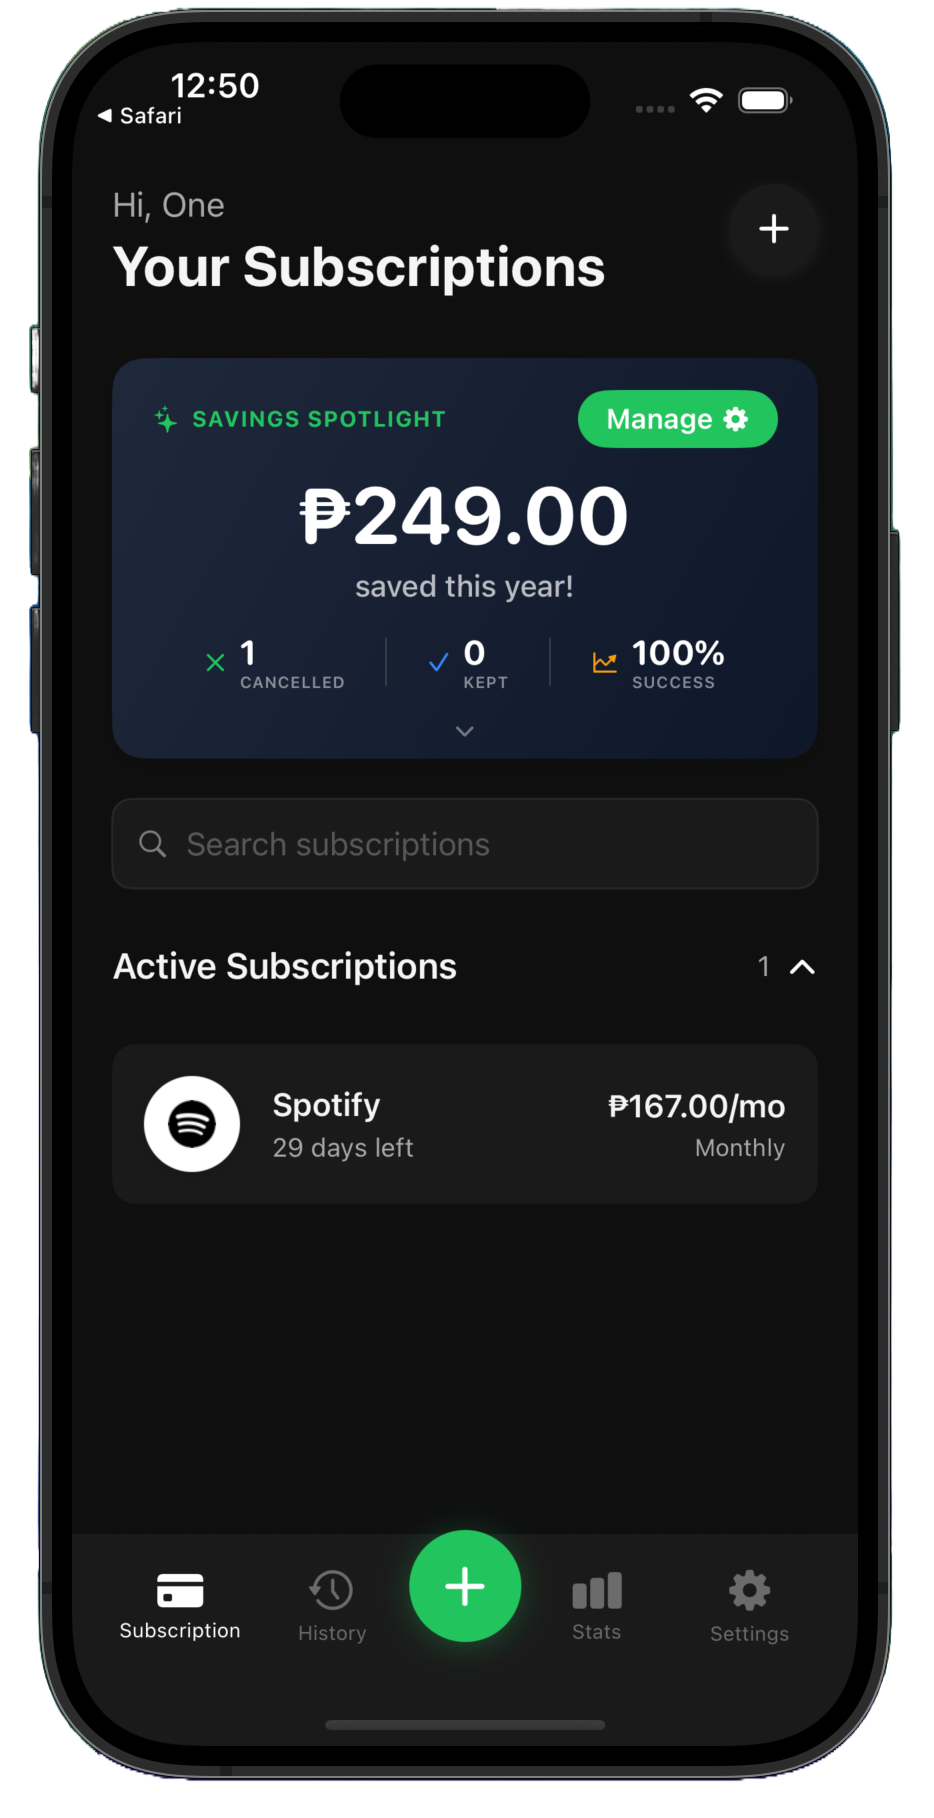
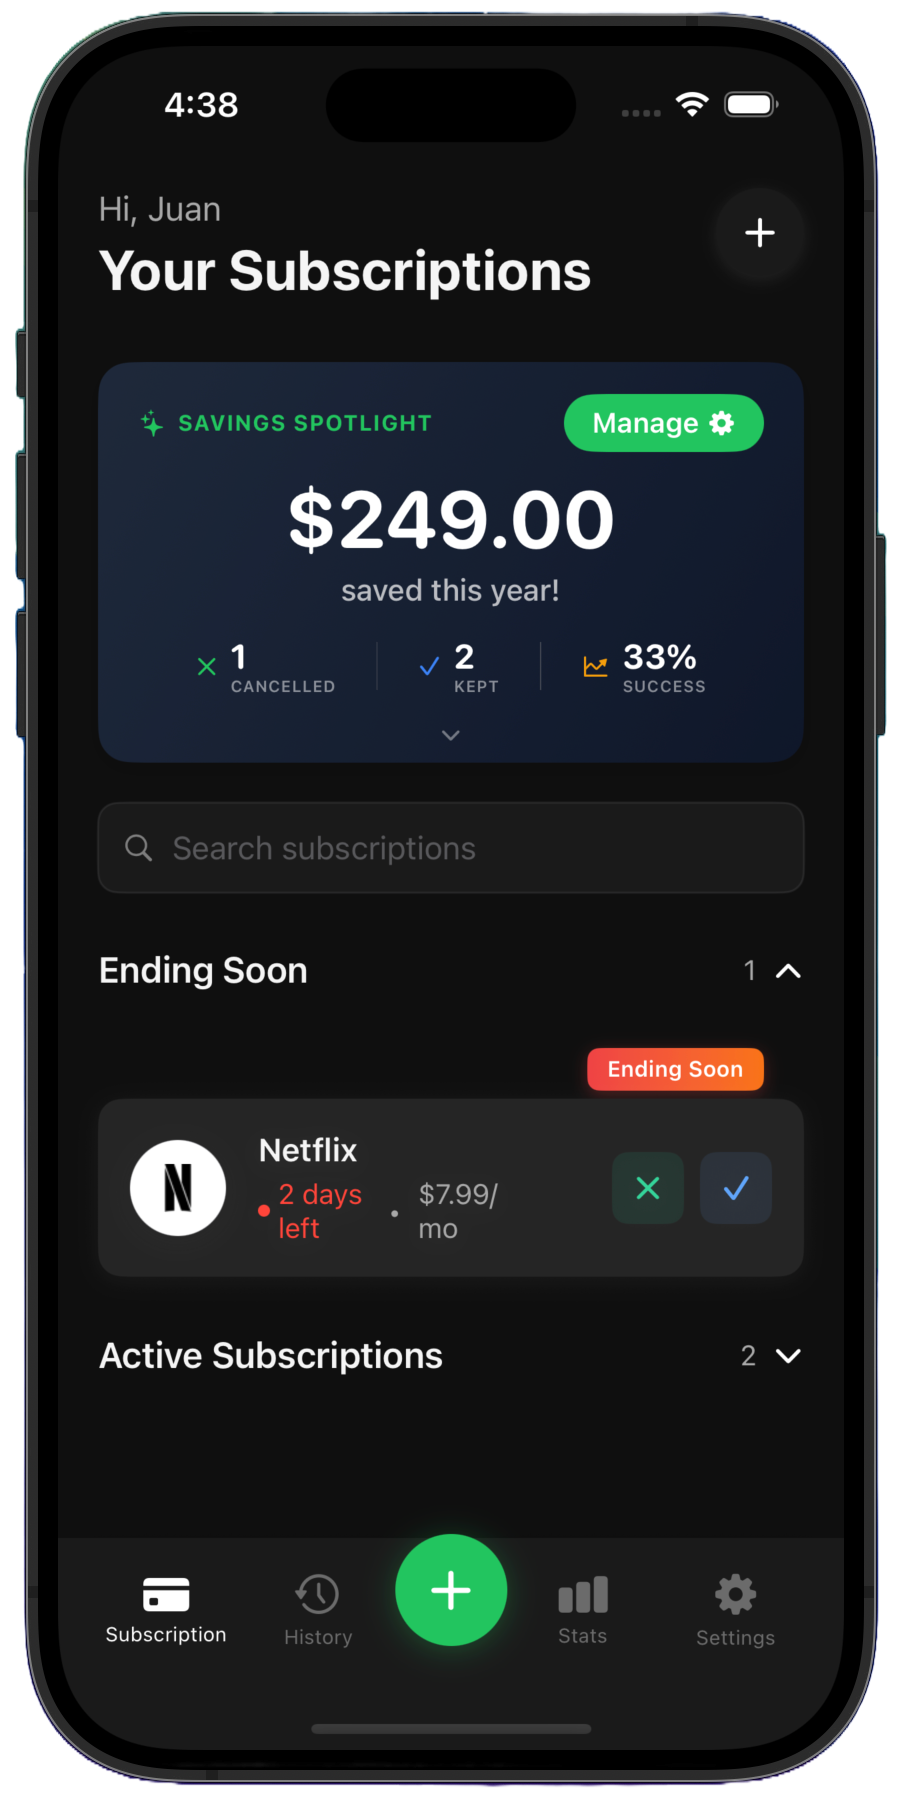
feat: Add app demo GIF and WARP.md documentation
- Replace placeholder demo with actual Kansyl app GIF in How It Works section
- Add comprehensive WARP.md file for future AI agent context
- Update demo container to fill entire space without background frame
- Import Next.js Image component for optimized GIF display

diff --git a/app/page.tsx b/app/page.tsx
@@ -1,6 +1,7 @@
 "use client"
 
 import React from 'react'
+import Image from 'next/image'
 import { DotGridHero } from "@/components/dot-grid-reactbits"
 import { PhoneMockup } from "@/components/phone-mockup"
 import { NumberTicker } from "@/components/number-ticker"
@@ -181,33 +182,15 @@ export default function Home() {
           <Reveal delay={0.2}>
             <div className="flex justify-center lg:justify-end lg:mr-[-3rem]">
               <div className="relative group lg:pr-20">
-                <div className="relative w-[280px] sm:w-[320px] md:w-[360px] h-[500px] sm:h-[570px] md:h-[640px] bg-gradient-to-b from-neutral-900/90 to-neutral-900/50 backdrop-blur-xl rounded-2xl border border-neutral-800/50 flex items-center justify-center overflow-hidden">
-                  <div className="absolute inset-0 bg-grid-white/[0.02] bg-[size:20px_20px]"></div>
-                  <div className="text-center text-neutral-400 z-10">
-                    <div className="w-20 h-20 mx-auto mb-4 bg-gradient-to-br from-primary/20 to-accent/20 rounded-2xl flex items-center justify-center group-hover:scale-110 transition-transform duration-300">
-                      <svg 
-                        className="w-10 h-10 text-primary" 
-                        fill="none" 
-                        stroke="currentColor" 
-                        viewBox="0 0 24 24"
-                      >
-                        <path 
-                          strokeLinecap="round" 
-                          strokeLinejoin="round" 
-                          strokeWidth={1.5} 
-                          d="M14.752 11.168l-3.197-2.132A1 1 0 0010 9.87v4.263a1 1 0 001.555.832l3.197-2.132a1 1 0 000-1.664z" 
-                        />
-                        <path 
-                          strokeLinecap="round" 
-                          strokeLinejoin="round" 
-                          strokeWidth={1.5} 
-                          d="M21 12a9 9 0 11-18 0 9 9 0 0118 0z" 
-                        />
-                      </svg>
-                    </div>
-                    <p className="text-sm font-medium">App Demo</p>
-                    <p className="text-xs text-neutral-500 mt-1">Coming soon</p>
-                  </div>
+                <div className="relative w-[280px] sm:w-[320px] md:w-[360px] h-[500px] sm:h-[570px] md:h-[640px] rounded-2xl overflow-hidden shadow-2xl">
+                  <Image
+                    src="/assets/video/kansel app demo.gif"
+                    alt="Kansyl app demo showing how to add trials and manage subscriptions"
+                    fill
+                    className="object-cover object-center"
+                    unoptimized={true}
+                    priority
+                  />
                 </div>
               </div>
             </div>

diff --git a/WARP.md b/WARP.md
@@ -1,0 +1,168 @@
+# WARP.md
+
+This file provides guidance to WARP (warp.dev) when working with code in this repository.
+
+## Project Overview
+
+Kansyl Landing is a high-performance, accessible, production-ready landing site for the iOS app "Kansyl". It's built with Next.js 15 (App Router), TypeScript, Tailwind CSS, shadcn/ui, and Framer Motion, with advanced WebGL animations from React Bits integration.
+
+## Common Commands
+
+### Development
+```bash
+# Start development server with Turbopack
+npm run dev
+
+# Build for production
+npm run build
+
+# Start production server
+npm run start
+
+# Lint code
+npm run lint
+```
+
+### Testing Single Components
+Since this is a single-page landing site, you can test individual components by temporarily rendering them in `app/page.tsx` or creating a temporary test page.
+
+## Architecture Overview
+
+### Tech Stack
+- **Framework**: Next.js 15 with App Router and Turbopack
+- **Language**: TypeScript 5
+- **Styling**: Tailwind CSS with custom animations
+- **UI Components**: shadcn/ui (Radix UI primitives)
+- **Animations**: Framer Motion + GSAP + custom WebGL effects
+- **3D Graphics**: Three.js with postprocessing for WebGL effects
+
+### File Structure Patterns
+```
+app/
+├── page.tsx          # Single-page landing with all sections
+├── layout.tsx        # Global layout, fonts, metadata
+└── globals.css       # Global styles with CSS variables
+
+components/
+├── ui/               # shadcn/ui primitives (Button, Card, etc.)
+├── *-examples.tsx    # Example/demo components for testing
+├── animated-*.tsx    # Animation components (text, buttons)
+├── dot-grid-*.tsx    # Interactive dot grid backgrounds
+├── pixel-blast-*.tsx # WebGL pixel effects (React Bits)
+├── floating-*.tsx    # Interactive feature cards
+├── phone-*.tsx       # iPhone mockup components
+└── reveal.tsx        # Scroll-triggered reveal animations
+```
+
+### Component Architecture Patterns
+
+#### Animation Components
+The project uses a layered animation approach:
+
+1. **Framer Motion Components**: High-level declarative animations
+   - `AnimatedText`: Text animations (fadeInUp, typewriter, stagger, etc.)
+   - `AnimatedGradientButton`: Gradient hover effects
+   - `Reveal`: Scroll-triggered animations with Intersection Observer
+
+2. **GSAP Components**: Complex timeline-based animations
+   - Used in dot grid interactions and physics-based effects
+   - Performance-optimized with throttling and requestAnimationFrame
+
+3. **WebGL/Three.js Effects**: Hardware-accelerated graphics
+   - `PixelBlast`: Advanced pixel-based background effects with shaders
+   - Custom GLSL shaders for interactive distortion effects
+
+#### React Bits Integration
+The project manually integrates React Bits components (due to npm issues):
+- Complex WebGL effects with Three.js and postprocessing
+- Custom shader implementations with GLSL3
+- Performance optimizations (auto-pause offscreen, pixel ratio limiting)
+- Graceful fallbacks for non-WebGL browsers
+
+#### shadcn/ui Integration
+- Components configured in `components.json` with "new-york" style
+- Custom CSS variables in `globals.css` for theming
+- Tailwind plugin `tailwindcss-animate` for additional animations
+
+### State Management Patterns
+- Minimal client-side state (mostly UI state like mobile menu)
+- Heavy use of `useRef` for direct DOM manipulation in animation components
+- `useMemo` and `useCallback` for performance optimization in complex components
+
+### Performance Optimizations
+
+#### Animation Performance
+- `requestAnimationFrame` loops for smooth 60fps animations
+- Throttling for mouse/scroll event handlers
+- GPU acceleration via `transform3d` and WebGL
+- Conditional animation based on `prefers-reduced-motion`
+
+#### Bundle Optimization
+- Dynamic imports for heavy WebGL components (if needed)
+- Turbopack for fast development builds
+- Next.js automatic code splitting
+
+#### Responsive Design
+- Mobile-first approach with Tailwind breakpoints
+- `ResizeObserver` for responsive canvas sizing
+- Device pixel ratio handling for high-DPI displays
+
+## Development Guidelines
+
+### Adding New Animations
+1. **Simple animations**: Use Framer Motion with predefined variants
+2. **Complex interactions**: Use GSAP with proper cleanup in `useEffect`
+3. **WebGL effects**: Follow React Bits patterns with feature detection
+4. **Always add**: Reduced motion fallbacks via `prefers-reduced-motion`
+
+### Component Development
+- Use TypeScript interfaces for all component props
+- Follow shadcn/ui patterns for form/input components
+- Add proper keyboard navigation and ARIA labels for accessibility
+- Test on mobile devices for touch interactions
+
+### WebGL Component Guidelines
+- Always check WebGL2 availability before rendering
+- Implement proper cleanup in `useEffect` return functions
+- Use absolute positioning with explicit parent dimensions
+- Add fallback styles for non-WebGL browsers
+- Limit pixel ratio to 2 for performance on high-DPI displays
+
+### Styling Conventions
+- Use Tailwind utility classes for most styling
+- CSS variables defined in `globals.css` for theme colors
+- Custom animations defined in `tailwind.config.ts`
+- Component-scoped styles only when necessary
+
+### Performance Considerations
+- Lazy load heavy components below the fold
+- Use `next/image` for all images with proper `alt` attributes
+- Minimize layout shifts during animations
+- Test on lower-end devices for smooth performance
+
+## Important Implementation Notes
+
+### Metadata Configuration
+- Update `metadataBase` in `app/layout.tsx` before deploying to production
+- Current placeholder URL: `https://kansyl.app`
+
+### Animation Dependencies
+The project uses multiple animation libraries that must work together:
+- **Framer Motion**: For React component animations
+- **GSAP**: For complex timeline animations and physics
+- **Three.js + postprocessing**: For WebGL effects
+- **Tailwind Animate**: For utility-based CSS animations
+
+### Browser Support
+- Modern browsers with ES6+ support
+- WebGL2 for advanced effects (with fallbacks)
+- iOS 15+ Safari compatibility (target audience)
+- Reduced motion support for accessibility
+
+### Mobile Optimization
+- Touch-friendly interactive elements (44px minimum)
+- Optimized animation performance on mobile
+- Responsive typography and spacing
+- iOS-specific considerations for the target app audience
+
+This architecture supports both rapid development and production performance while maintaining accessibility and smooth animations across devices.
